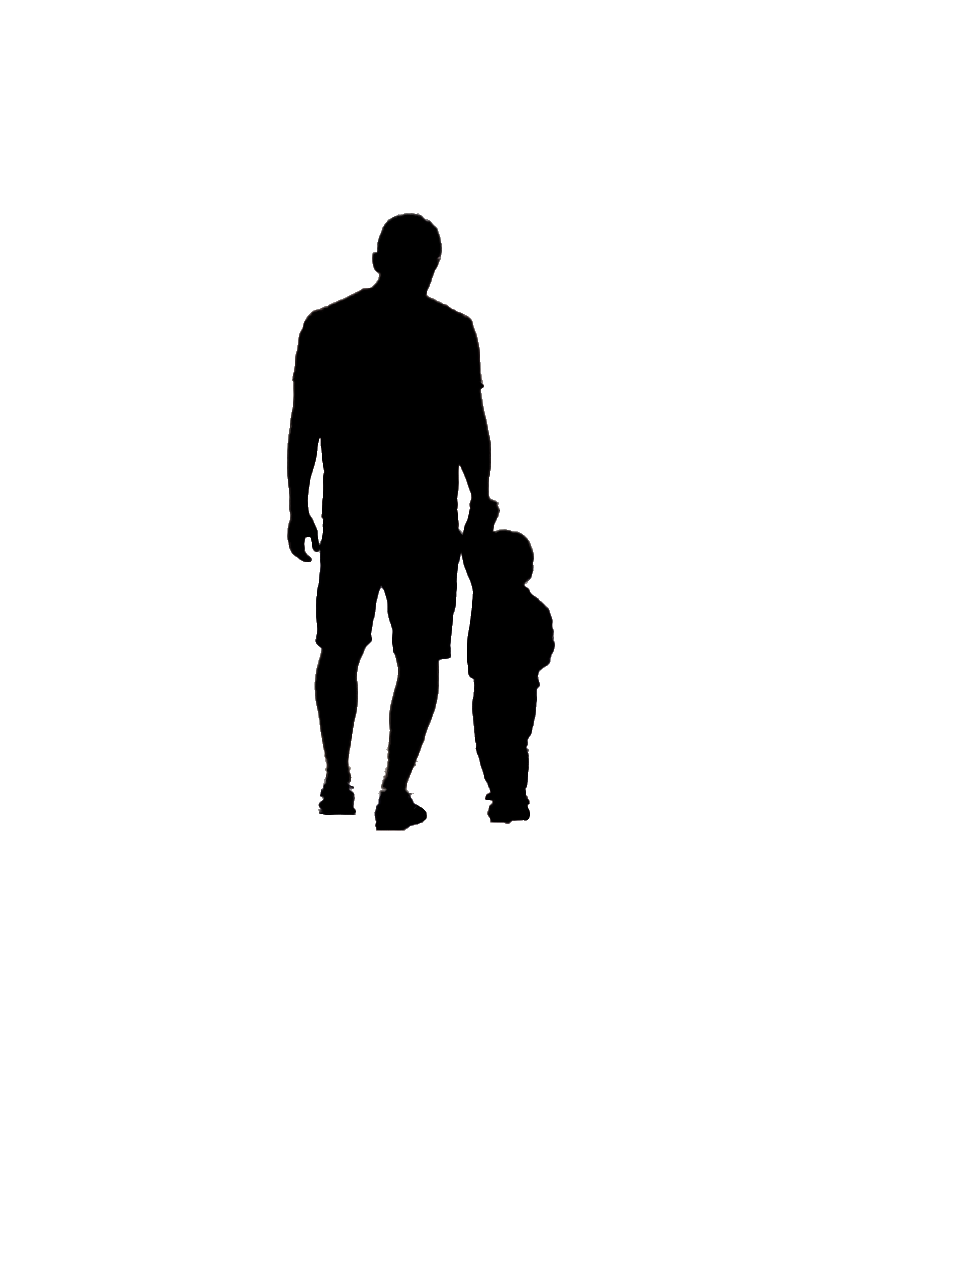
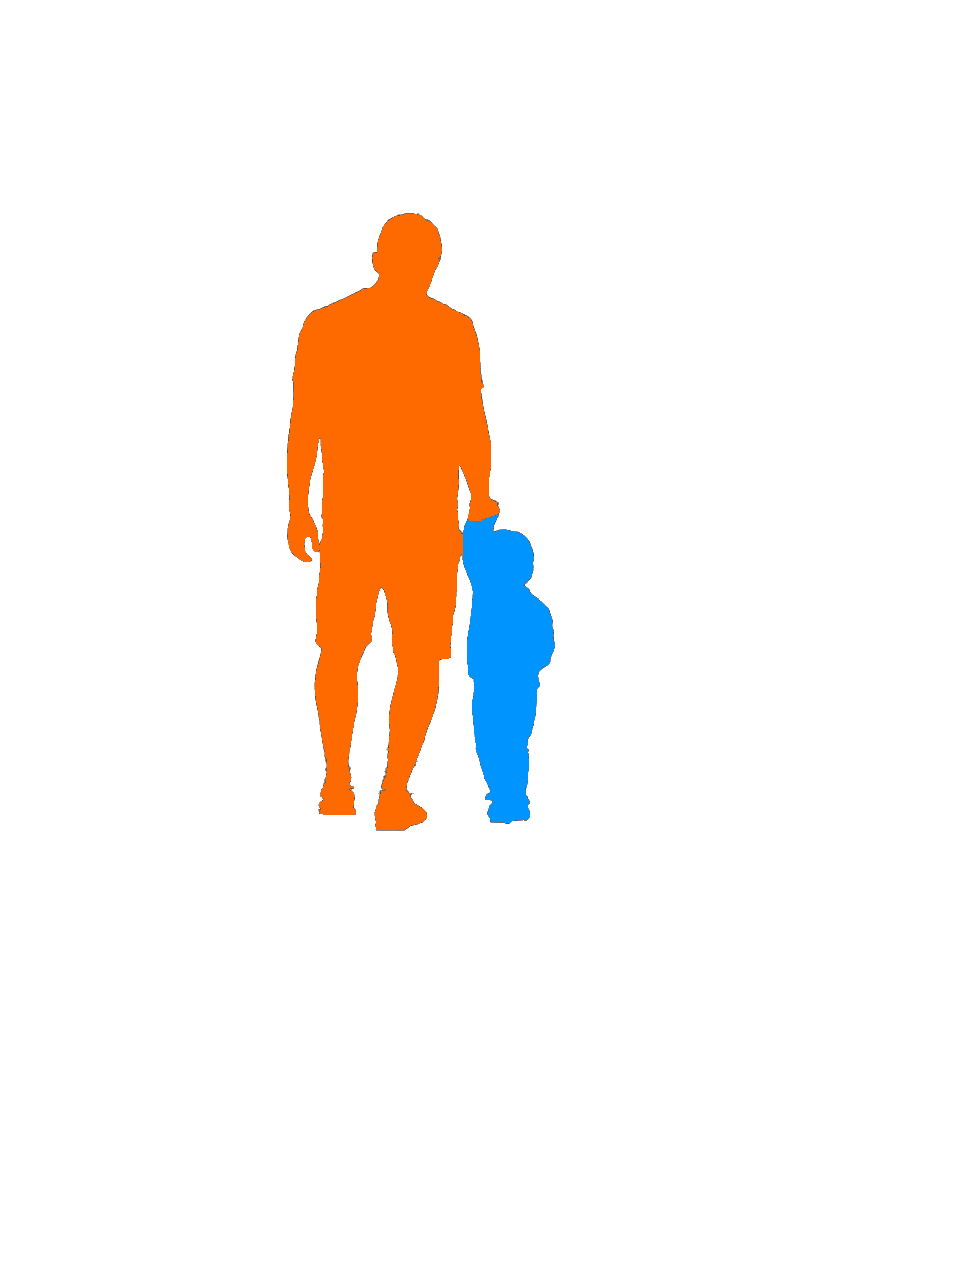
[devbricks][DEV]: add trimBitmap facility in ImageUtils; [devbricks][DEV]: clarify pixel format issue in intArrayToBitmap; [devbricks][REL]: update version to 0.9.9;

Changed region(s): [[0.2812, 0.1562, 0.5938, 0.6562]]

diff --git a/samples/src/main/java/com/dailystudio/devbricksx/samples/imagemask/CaseActivity.kt b/samples/src/main/java/com/dailystudio/devbricksx/samples/imagemask/CaseActivity.kt
@@ -14,8 +14,6 @@ import com.dailystudio.devbricksx.utils.ImageUtils
 import kotlinx.coroutines.Dispatchers
 import kotlinx.coroutines.launch
 import java.nio.ByteBuffer
-import java.nio.ByteOrder
-import java.nio.IntBuffer
 import kotlin.random.Random
 
 class MaskData(val data: IntArray,
@@ -43,15 +41,13 @@ class CaseActivity : BaseCaseActivity() {
         }
     }
 
-    private suspend fun generateMaskedImages() {
+    private fun generateMaskedImages() {
         val viewModel = ViewModelProvider(this@CaseActivity).get(
                 MaskedImageViewModel::class.java)
 
         val original = ImageUtils.loadAssetBitmap(this@CaseActivity,
                 IMAGE_ASSET)
         original?.let {
-//            val buffer = generateBits(it.width, it.height)
-//            filterBits(buffer, it.width, it.height)
             val buffer = generateBits(257, 257)
             filterBits(buffer, 257, 257)
             viewModel.insertMaskedImage(MaskedImage(0, "Original",
@@ -107,10 +103,10 @@ class CaseActivity : BaseCaseActivity() {
         val start = System.currentTimeMillis()
         val pixels = width * height
         val data = IntArray(pixels)
-        var fa = FloatArray(width * height * NUM_CLASSES)
+        val floatData = FloatArray(width * height * NUM_CLASSES)
 
         bits.rewind()
-        bits.asFloatBuffer().get(fa)
+        bits.asFloatBuffer().get(floatData)
 
         for (y in 0 until height) {
             for (x in 0 until width) {
@@ -118,9 +114,7 @@ class CaseActivity : BaseCaseActivity() {
                 data[y * width + x] = 0
 
                 for (c in 0 until NUM_CLASSES) {
-//                    val value = bits
-//                            .getFloat((y * width * NUM_CLASSES + x * NUM_CLASSES + c) * 4)
-                    val value = fa[y * width * NUM_CLASSES + x * NUM_CLASSES + c]
+                    val value = floatData[y * width * NUM_CLASSES + x * NUM_CLASSES + c]
                     if (c == 0 || value > maxVal) {
                         maxVal = value
                         data[y * width + x] = c
@@ -136,8 +130,8 @@ class CaseActivity : BaseCaseActivity() {
         return data
     }
 
-    private suspend fun loadBitsFromMaskBitmap(context: Context,
-                                               file: String): MaskData? {
+    private fun loadBitsFromMaskBitmap(context: Context,
+                                       file: String): MaskData? {
         val bitmap = ImageUtils.loadAssetBitmap(context, file) ?: return null
 
         val width = bitmap.width
@@ -151,11 +145,16 @@ class CaseActivity : BaseCaseActivity() {
             for (x in 0 until width) {
                 val value = intValues[pixel]
 
-                if (value == 0) {
-                    intValues[pixel] = Color.TRANSPARENT
-                } else {
-                    intValues[pixel] = Color.BLACK
-                }
+                /**
+                 * Each integer element in the array represent a pixel and
+                 * format should be
+                 *      A B R G
+                 */
+                val a = (Color.alpha(value) and 0xFF) shl 24
+                val b = (Color.blue(value) and 0xFF) shl 16
+                val g = (Color.green(value) and 0xFF) shl 8
+                val r = (Color.red(value) and 0xFF)
+                intValues[pixel] = a or b or g or r
 
                 pixel++
             }

diff --git a/devbricksx/src/main/java/com/dailystudio/devbricksx/utils/ImageUtils.kt b/devbricksx/src/main/java/com/dailystudio/devbricksx/utils/ImageUtils.kt
@@ -8,16 +8,15 @@ import android.media.Image
 import android.os.Build
 import android.text.TextUtils
 import android.util.Base64
+import android.util.Size
 import android.view.View
 import android.view.View.MeasureSpec
 import androidx.annotation.ColorInt
 import com.dailystudio.devbricksx.development.Logger
 import java.io.*
 import java.nio.ByteBuffer
-import java.nio.ByteOrder
 import java.nio.IntBuffer
 import java.util.*
-import kotlin.math.abs
 import kotlin.math.min
 import kotlin.math.roundToInt
 
@@ -605,6 +604,28 @@ object ImageUtils {
         return calculateBrightnessEstimate(bitmap, 1)
     }
 
+    fun trimBitmap(bitmap: Bitmap,
+                   destWidth: Int,
+                   destHeight: Int): Bitmap {
+        val clipWidth = if (destWidth > destHeight) {
+            bitmap.width
+        } else {
+            bitmap.width * destWidth / destHeight
+        }
+
+        val clipHeight = if (destWidth > destHeight) {
+            bitmap.height * destHeight / destWidth
+        } else {
+            bitmap.height
+        }
+
+        val xOffset = (bitmap.width - clipWidth) / 2
+        val yOffset = (bitmap.height - clipHeight) / 2
+
+        return createClippedBitmap(bitmap,
+                xOffset, yOffset, clipWidth, clipHeight)
+    }
+
     fun paddingBitmap(origin: Bitmap,
                       padding: Int,
                       paddingBackground: Int,
@@ -1029,33 +1050,24 @@ object ImageUtils {
         return bitmap
     }
 
-    private fun intArrayToBuffer(array: IntArray): IntBuffer {
-//        val start = System.currentTimeMillis()
-        val buffer = IntBuffer.wrap(array)
-        for (pixel in array.indices) {
-            buffer.put(array[pixel])
-        }
+    private fun intArrayToBuffer(intArrayInABGRFormat: IntArray): IntBuffer {
+        val buffer = IntBuffer.wrap(intArrayInABGRFormat)
 
-//        val end = System.currentTimeMillis()
-//        Logger.debug("array with ${array.size} elements to buffer in ${end - start} ms")
+        for (pixel in intArrayInABGRFormat.indices) {
+            buffer.put(intArrayInABGRFormat[pixel])
+        }
 
         return buffer
     }
 
-    fun intArrayToBitmap(array: IntArray,
+    fun intArrayToBitmap(intArrayInABGRFormat: IntArray,
                          width: Int,
                          height: Int): Bitmap {
-//        val start = System.currentTimeMillis()
-
-        val buffer = intArrayToBuffer(array)
+        val buffer = intArrayToBuffer(intArrayInABGRFormat)
         buffer.rewind()
 
         val bitmap = Bitmap.createBitmap(width, height, Bitmap.Config.ARGB_8888)
         bitmap.copyPixelsFromBuffer(buffer)
-
-//        val end = System.currentTimeMillis()
-//
-//        Logger.debug("convert ${buffer.capacity()} bytes buffer to bitmap in ${end - start} ms")
 
         return bitmap
     }

diff --git a/README.md b/README.md
@@ -1,5 +1,5 @@
 # DevBricks X - Android
-[![License](https://poser.pugx.org/dreamfactory/dreamfactory/license.svg)](http://www.apache.org/licenses/LICENSE-2.0) [![API](https://img.shields.io/badge/API-19%2B-brightgreen.svg?style=flat)](https://android-arsenal.com/api?level=19) [![Download](https://api.bintray.com/packages/dailystudio/maven/devbricksx/images/download.svg?version=0.9.8) ](https://bintray.com/dailystudio/maven/devbricksx/0.9.8/link)
+[![License](https://poser.pugx.org/dreamfactory/dreamfactory/license.svg)](http://www.apache.org/licenses/LICENSE-2.0) [![API](https://img.shields.io/badge/API-19%2B-brightgreen.svg?style=flat)](https://android-arsenal.com/api?level=19) [![Download](https://api.bintray.com/packages/dailystudio/maven/devbricksx/images/download.svg?version=0.9.9) ](https://bintray.com/dailystudio/maven/devbricksx/0.9.9/link)
 
 **DevBricksX** is a remake and extended version of [DevBricks](https://github.com/dailystudio/devbricks). It provides plenty of useful classes that will be used in daily Android development. With these "bricks", your development will become:
 
@@ -48,7 +48,7 @@ dependencies {
 #### Latest version
 
 ```groovy
-devbricksx_version = "0.9.8"
+devbricksx_version = "0.9.9"
 ```
 
 ### Step 2: Application initialization (Optional)

diff --git a/devbricksx-kotlin-annotations/README.md b/devbricksx-kotlin-annotations/README.md
@@ -31,7 +31,7 @@ dependencies {
 #### Latest version
 
 ```groovy
-devbricksx_version = "0.9.8"
+devbricksx_version = "0.9.9"
 ```
 
 If you want to auto-generate low-level facilities of an object class, such as **Dao**, **Database**, etc., DO NOT forget to include devbricksx-java-anntations and related compiler. See [devbricksx-java-annotations](../devbricksx-java-annotations/README.md) for more information.

diff --git a/devbricksx-java-annotations/README.md b/devbricksx-java-annotations/README.md
@@ -27,7 +27,7 @@ dependencies {
 #### Latest version
 
 ```groovy
-devbricksx_version = "0.9.8"
+devbricksx_version = "0.9.9"
 ```
 
 The codes generated by this library require Android Room Library to compile. DO NOT forget to include **room-compiler** in dependencies.
